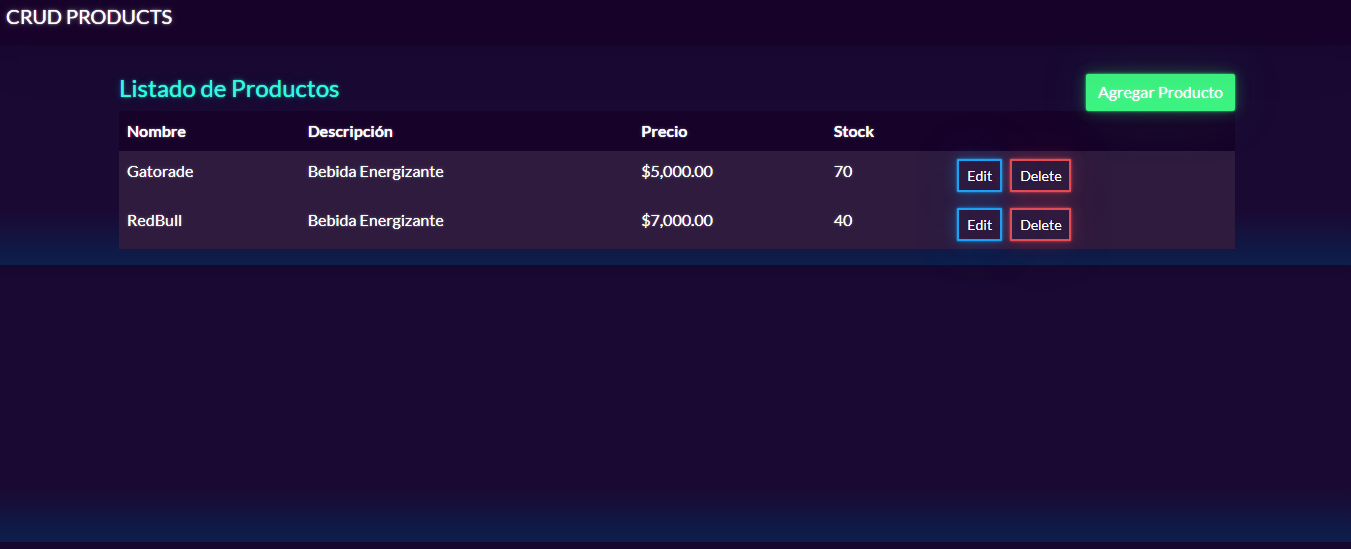
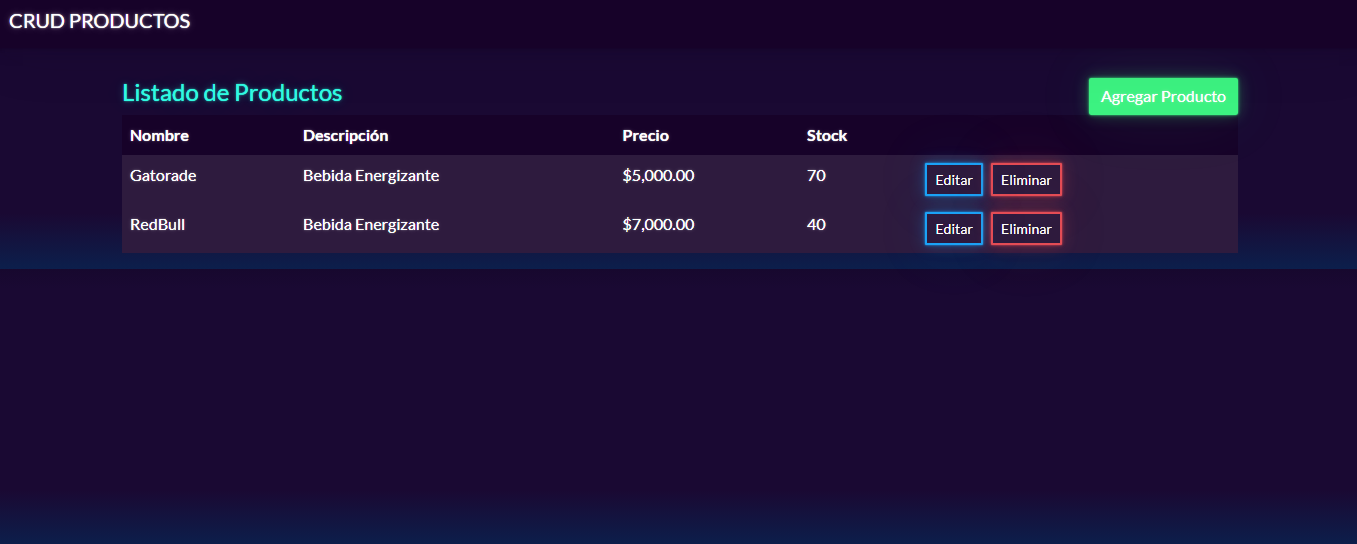
Ajustes Varios

diff --git a/src/app/components/list-products/list-products.component.html b/src/app/components/list-products/list-products.component.html
@@ -22,8 +22,8 @@
             <td>{{product.price | currency}}</td>
             <td>{{product.stock}}</td>
             <td>
-                <button type="button" class="btn btn-outline-info btn-sm" routerLink="/edit/{{product.id}}">Edit</button>
-                <button (click)="deleteProduct(product.id!)" type="button" class="btn btn-outline-danger btn-sm ms-2">Delete</button>
+                <button type="button" class="btn btn-outline-info btn-sm" routerLink="/edit/{{product.id}}">Editar</button>
+                <button (click)="deleteProduct(product.id!)" type="button" class="btn btn-outline-danger btn-sm ms-2">Eliminar</button>
             </td>
           </tr>
         </tbody>

diff --git a/src/app/components/navbar/navbar.component.html b/src/app/components/navbar/navbar.component.html
@@ -1,6 +1,6 @@
 <nav class="navbar navbar-expand-lg navbar-dark bg-dark">
     <div class="container-fluid">
-      <a class="navbar-brand text-uppercase" href="#">Crud Products</a>
+      <a class="navbar-brand text-uppercase" href="#">Crud Productos</a>
     
     </div>
   </nav>

diff --git a/README.md b/README.md
@@ -13,7 +13,7 @@
 
 https://drive.google.com/file/d/1_54K3a9qEfmRzhWDVl_372M3S3sHP4ep/view?usp=share_link
 
-CRUD de productos.
+This project was generated with Angular CLI version 15.0.4
 
 ## Built With
 
